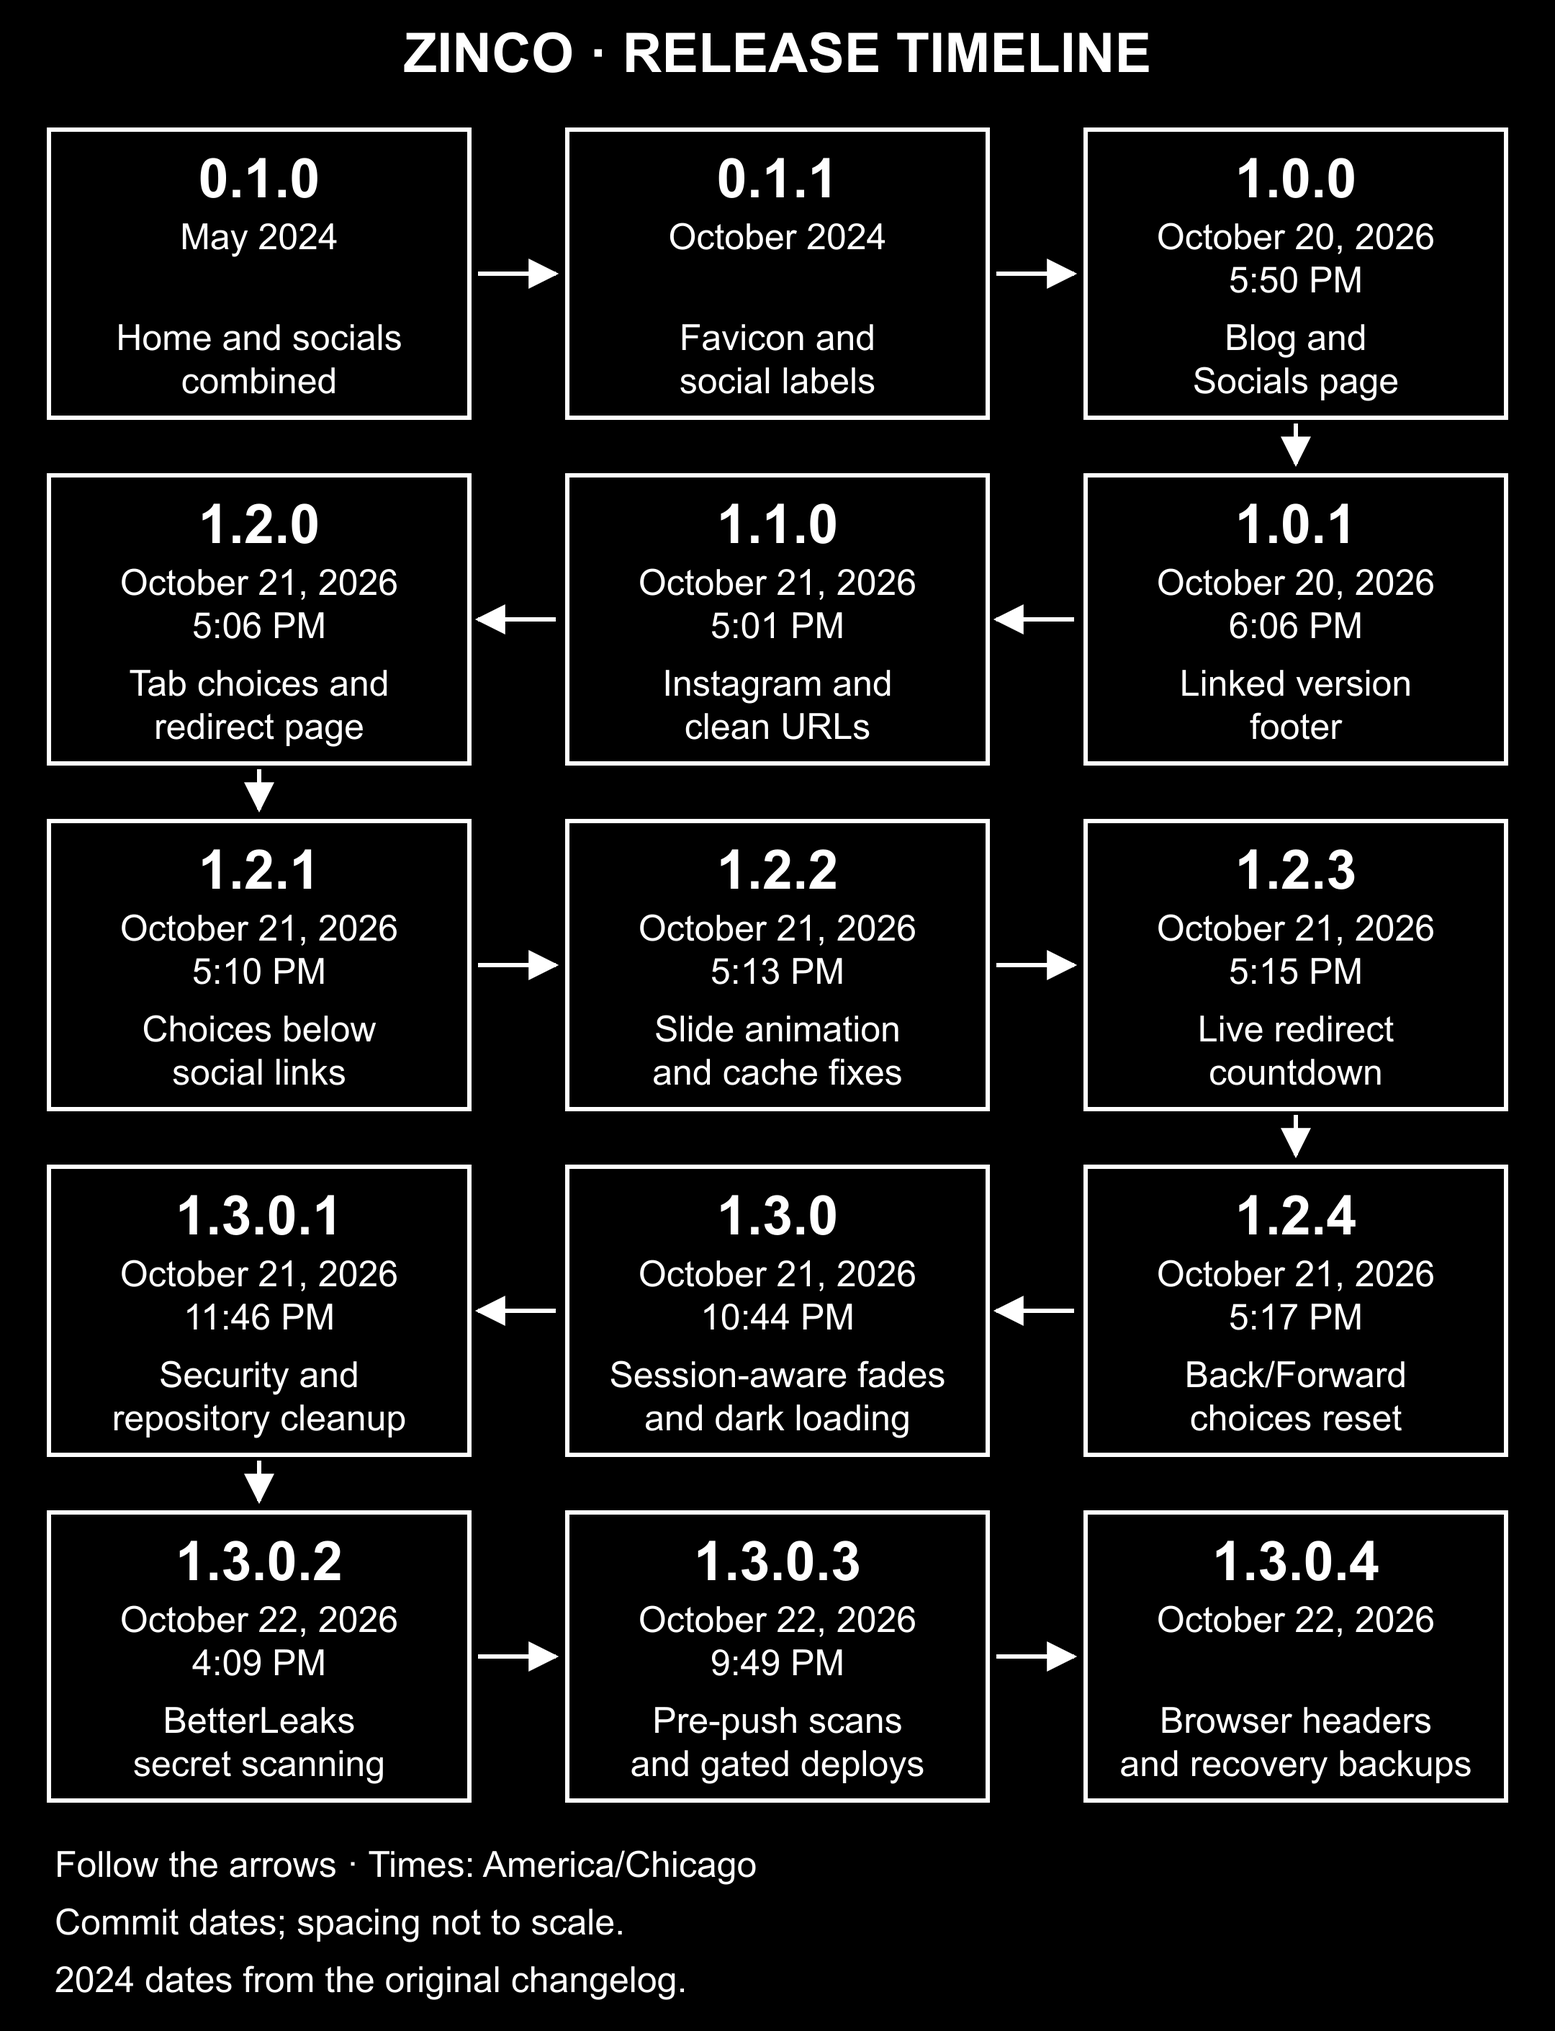
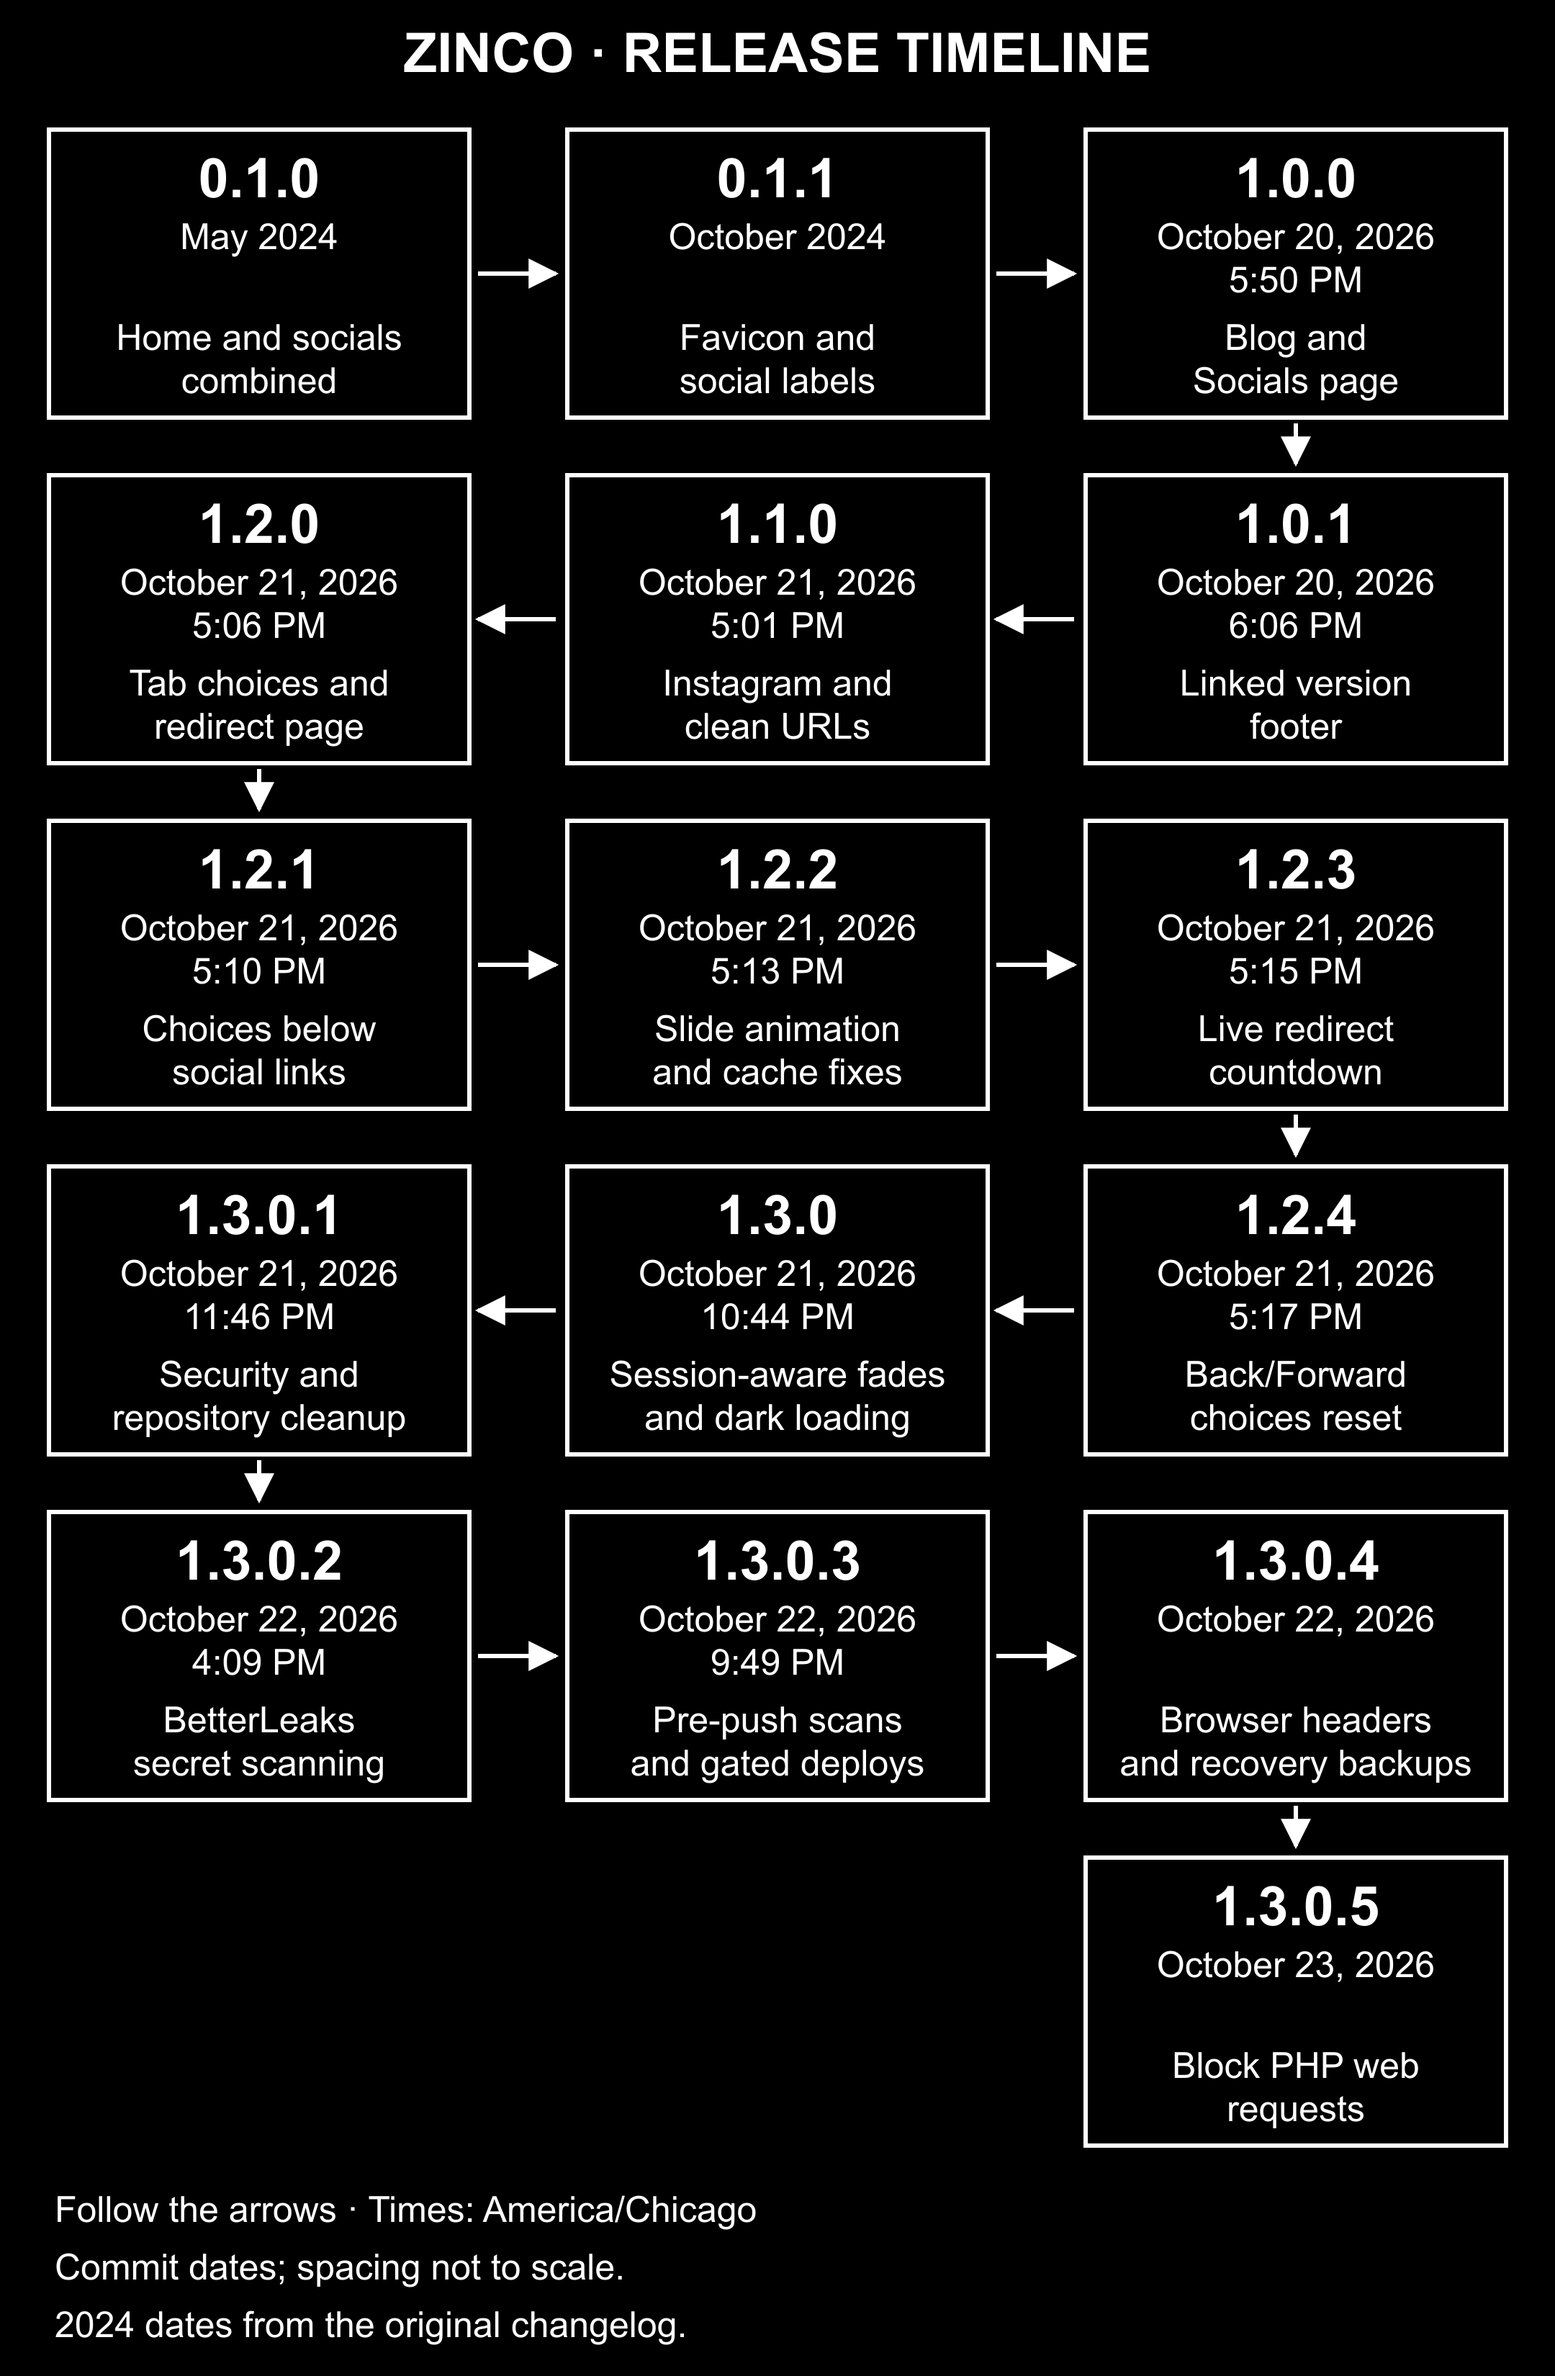
Release v1.3.0.5 blocking PHP requests on the static website

diff --git a/socials.html b/socials.html
@@ -49,8 +49,8 @@
     <meta name="description" content="Find ZINCO on Discord, TikTok, GitHub, Bluesky, X, YouTube, Twitch, and Instagram.">
     <title>Socials | ZINCO</title>
     <link rel="icon" href="images/favicon.ico">
-    <link rel="stylesheet" href="style.css?v=1.3.0.4">
-    <script src="social-links.js?v=1.3.0.4" defer></script>
+    <link rel="stylesheet" href="style.css?v=1.3.0.5">
+    <script src="social-links.js?v=1.3.0.5" defer></script>
 </head>
 <body class="socials-page">
     <main>
@@ -99,7 +99,7 @@
     </div>
     </main>
     <footer class="site-footer">
-        <a class="site-version" href="https://github.com/zincodrone/zinco.gay-website">v1.3.0.4</a>
+        <a class="site-version" href="https://github.com/zincodrone/zinco.gay-website">v1.3.0.5</a>
         <p class="footer-heart">🖤</p>
     </footer>
 </body>

diff --git a/redirect.html b/redirect.html
@@ -12,8 +12,8 @@
     <meta name="robots" content="noindex">
     <title>Leaving ZINCO</title>
     <link rel="icon" href="images/favicon.ico">
-    <link rel="stylesheet" href="style.css?v=1.3.0.4">
-    <script src="social-links.js?v=1.3.0.4" defer></script>
+    <link rel="stylesheet" href="style.css?v=1.3.0.5">
+    <script src="social-links.js?v=1.3.0.5" defer></script>
 </head>
 <body>
     <main>
@@ -35,7 +35,7 @@
         </section>
     </main>
     <footer class="site-footer">
-        <a class="site-version" href="https://github.com/zincodrone/zinco.gay-website">v1.3.0.4</a>
+        <a class="site-version" href="https://github.com/zincodrone/zinco.gay-website">v1.3.0.5</a>
         <p class="footer-heart">🖤</p>
     </footer>
 </body>

diff --git a/blog/welcome.html b/blog/welcome.html
@@ -30,7 +30,7 @@
     <meta name="description" content="Welcome to ZINCO's blog: a new home for thoughts and updates.">
     <title>Welcome! | ZINCO</title>
     <link rel="icon" href="../images/favicon.ico">
-    <link rel="stylesheet" href="../style.css?v=1.3.0.4">
+    <link rel="stylesheet" href="../style.css?v=1.3.0.5">
 </head>
 <body class="blog-page">
     <main>
@@ -52,7 +52,7 @@
         </article>
     </main>
     <footer class="site-footer">
-        <a class="site-version" href="https://github.com/zincodrone/zinco.gay-website">v1.3.0.4</a>
+        <a class="site-version" href="https://github.com/zincodrone/zinco.gay-website">v1.3.0.5</a>
         <p class="footer-heart">🖤</p>
     </footer>
 </body>

diff --git a/blog/index.html b/blog/index.html
@@ -30,7 +30,7 @@
     <meta name="description" content="Thoughts, updates, and writing from ZINCO.">
     <title>Blog | ZINCO</title>
     <link rel="icon" href="../images/favicon.ico">
-    <link rel="stylesheet" href="../style.css?v=1.3.0.4">
+    <link rel="stylesheet" href="../style.css?v=1.3.0.5">
 </head>
 <body class="blog-page">
     <main>
@@ -54,7 +54,7 @@
         </section>
     </main>
     <footer class="site-footer">
-        <a class="site-version" href="https://github.com/zincodrone/zinco.gay-website">v1.3.0.4</a>
+        <a class="site-version" href="https://github.com/zincodrone/zinco.gay-website">v1.3.0.5</a>
         <p class="footer-heart">🖤</p>
     </footer>
 </body>

diff --git a/index.html b/index.html
@@ -29,7 +29,7 @@
     <meta name="viewport" content="width=device-width, initial-scale=1.0">
     <title>ZINCO</title>
     <link rel="icon" href="images/favicon.ico">
-    <link rel="stylesheet" href="style.css?v=1.3.0.4">
+    <link rel="stylesheet" href="style.css?v=1.3.0.5">
 </head>
 <body class="home-page">
     <main>
@@ -55,7 +55,7 @@
     </main>
 
     <footer class="site-footer">
-        <a class="site-version" href="https://github.com/zincodrone/zinco.gay-website">v1.3.0.4</a>
+        <a class="site-version" href="https://github.com/zincodrone/zinco.gay-website">v1.3.0.5</a>
         <p class="footer-heart">🖤</p>
     </footer>
 </body>

diff --git a/README.md b/README.md
@@ -25,6 +25,8 @@ GitHub's server-side secret scanning and push protection were confirmed enabled 
 
 The deployed `.htaccess` disables directory listings and sets a Content Security Policy that permits local assets and only the exact inline scripts and styles used by the site. It also blocks framing, disables MIME sniffing, limits referrer information, disables unused device permissions, and enables HTTPS-only browsing for one week after a secure visit. The HTTPS policy applies to this hostname only; it does not include subdomains or preload registration.
 
+PHP-family requests are denied in the public website directory, including mixed-case names, double extensions, and extra path segments. This static site does not need PHP. This is an HTTP access restriction, not removal or account-wide disabling of PHP. Hosting-managed cPanel and Webmail routes can bypass the website directory rules and remain separate.
+
 When changing inline HTML scripts or styles, run `python .github/scripts/check_site_security.py --update`, review the generated policy, and test the site. The security workflow checks those hashes before allowing deployment. Existing fades, the GIF background, social choices, and redirects must continue working under the policy.
 
 ### Maintenance
@@ -59,7 +61,7 @@ Each new clone needs this setup; Git does not automatically enable tracked hooks
 
 # Changelog
 
-Current version: **1.3.0.4**.
+Current version: **1.3.0.5**.
 
 New releases use `major.minor.patch.security`: major for substantial redesigns or changes that break existing behavior, minor for new features, patch for ordinary fixes or small maintenance updates, and security for security updates and related cleanup. Increment the applicable number and reset every number to its right to zero. After `1.3.0.1`, another security update would be `1.3.0.2`, an ordinary patch would be `1.3.1.0`, a new feature would be `1.4.0.0`, and a major release would be `2.0.0.0`. When changes span categories, use the highest applicable component.
 
@@ -71,7 +73,14 @@ Every update must update this README and the website version together, including
 
 Follow the arrows from the earliest release to the latest, snaking across each row. Times are in America/Chicago and reflect when each version was committed, not when it was deployed to the live website. The 2024 entries retain the months recorded in the original changelog; exact release days were not recorded there. Spacing between releases is not to scale.
 
-![Snaking release timeline from version 0.1.0 through 1.3.0.4](images/changelog-timeline-snake.png)
+![Snaking release timeline from version 0.1.0 through 1.3.0.5](images/changelog-timeline-snake.png)
+
+## 1.3.0.5 — October 23, 2026 (security update)
+
+- Blocked web access to PHP-family files in the website directory, including mixed-case and double-extension filenames.
+- Rejected PHP-shaped URLs before clean-URL rewriting, including missing files and extra path segments.
+- Documented that the restriction applies to the static website and does not disable the hosting PHP runtime or cPanel/Webmail services.
+- Updated all page versions, stylesheet/script cache versions, and the release timeline together.
 
 ## 1.3.0.4 — October 22, 2026 (security update)
 
